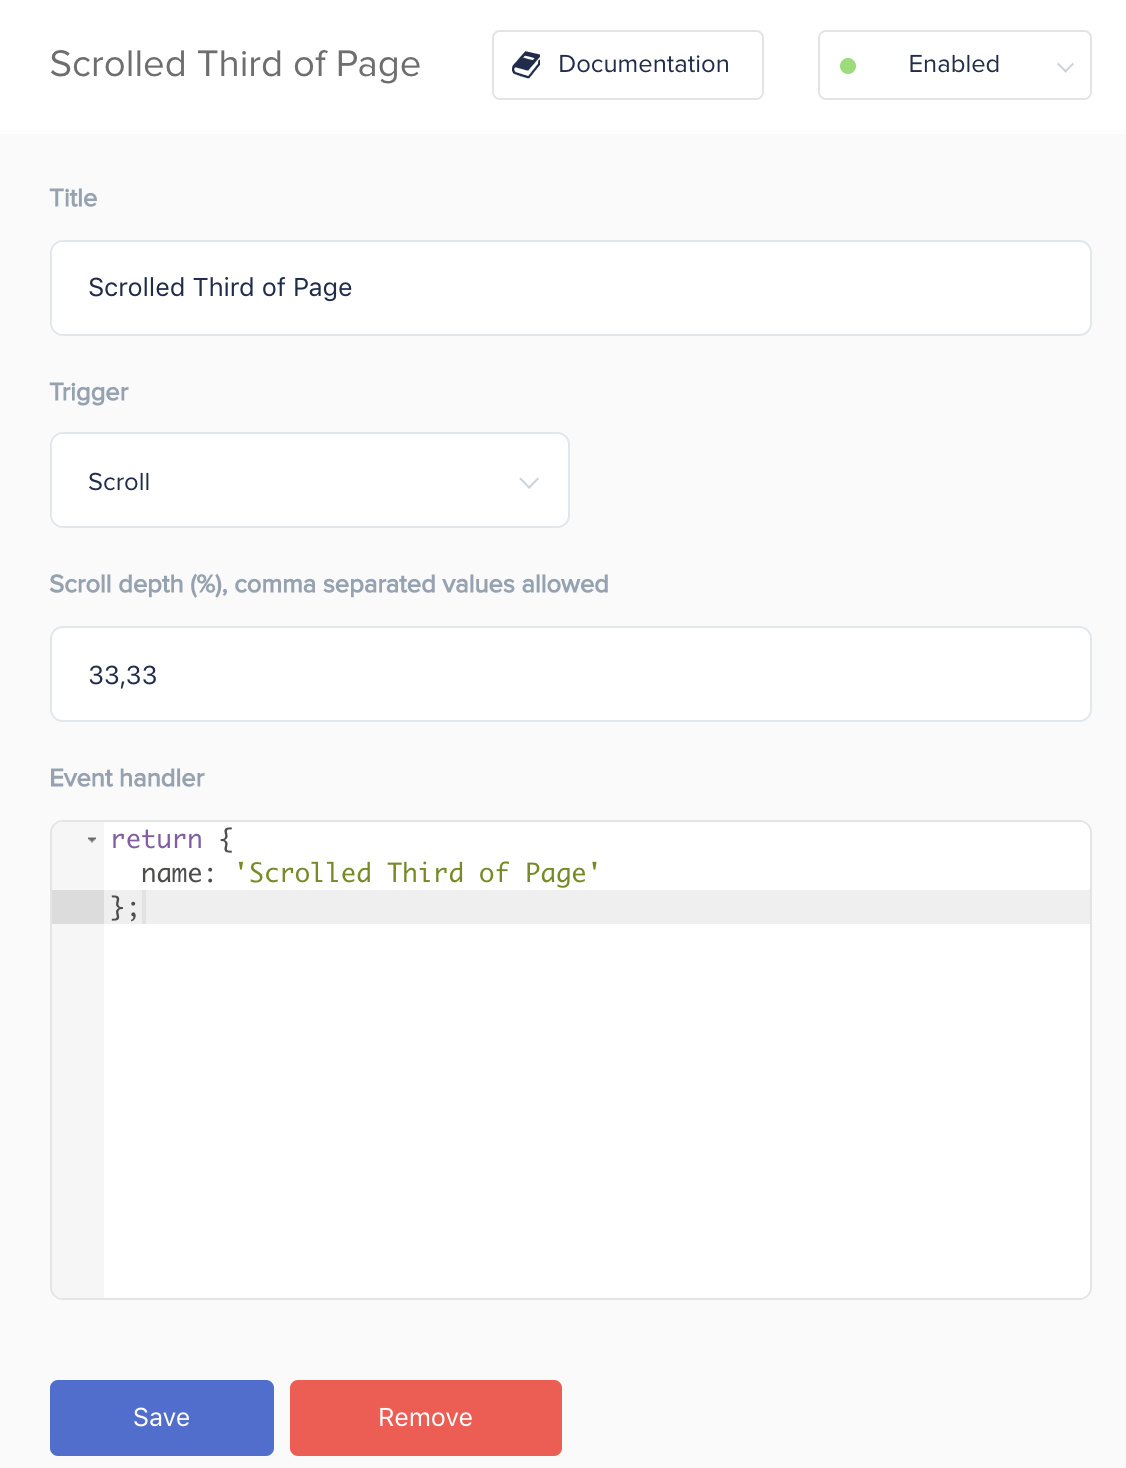
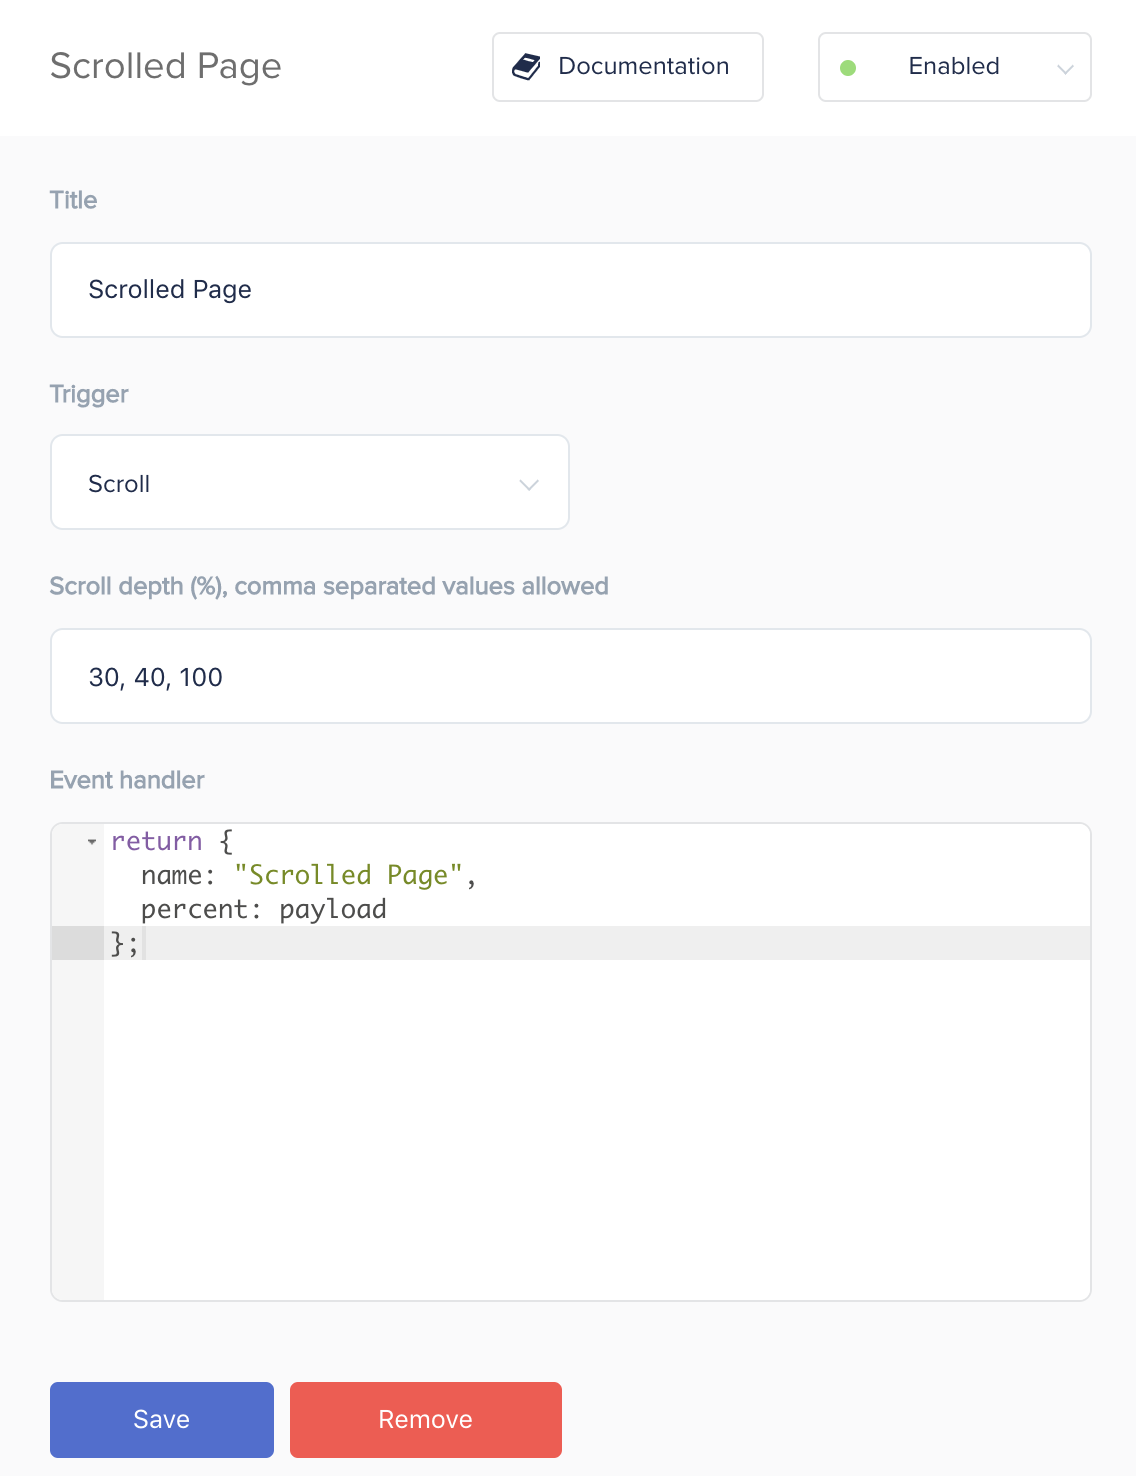
fix scroll trigger description

diff --git a/_docs/for-analyst/events.md b/_docs/for-analyst/events.md
@@ -102,10 +102,10 @@ return {
 };
 ```
 
-**Example 4: `Scrolled Full Page` Event**
+**Example 4: `Scrolled Page` Event**
 
-A custom event checking how much of the page has been scrolled through. It can only be triggered once per page, when the set scroll depth is reached.
-The example below shows how to track when the third of a page's length has been scrolled through.
+A custom event checking how much of the page has been scrolled through. It can be triggered once per page, for each of the set comma separated scroll depths is reached.
+The example below shows how to track when 30, 40, and 100 percent of a page's length has been scrolled through.
 
 ![](/img/events.scroll.png)
 
